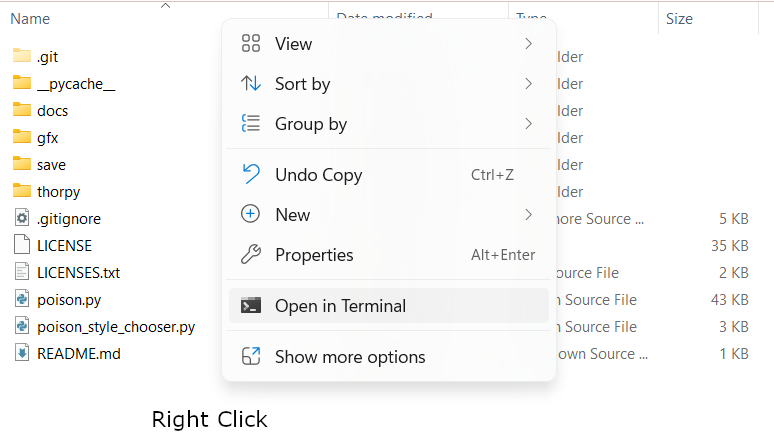
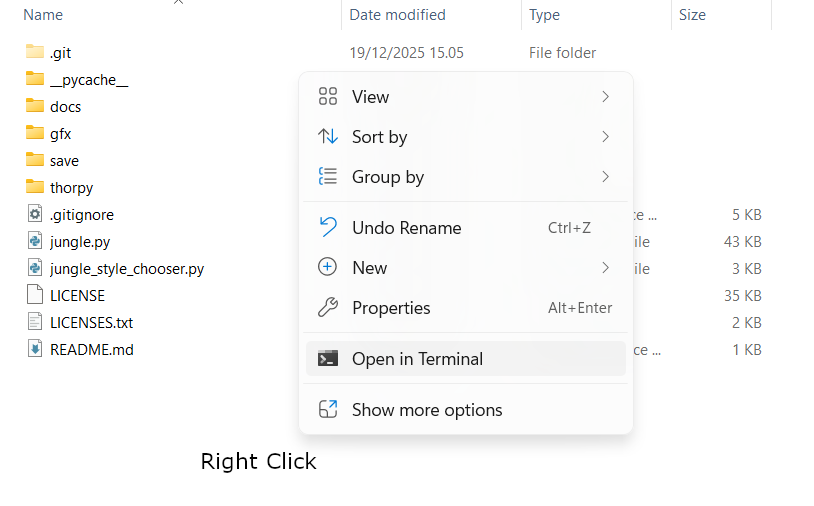
new name everywhere

diff --git a/docs/index.html b/docs/index.html
@@ -16,7 +16,7 @@ In this game you find yourself in a lush or sometimes barren jungle. You need to
 <p style="background-color: #345400; border: thick inset black; color: lightgreen;">py -3.13 -m pip install -U pillow</p>
 <h4 style="color: white; text-shadow: 3px 3px 0 #000, -1px -1px 0 #000, 1px -1px 0 #000, -1px 1px 0 #000, 1px 1px 0 #000;">Run the game after agreeing to the blue license note below</h4>
 <p style="background-color: #345400; border: thick inset black; color: lightgreen;">Download the latest <a style="color: purple; background-color: lightgreen;" href="https://github.com/Purlov/poisonivy/releases" target="_blank">Source code (zip)</a>. It is located under Assets</p>
-<p style="background-color: #345400; border: thick inset black; color: lightgreen;">py -3.13 -m poison (in the folder where you <a style="text-decoration: underline overline #ff3028; color: white;" href="extract.txt" target="_blank">extracted</a> the source code)</p>
+<p style="background-color: #345400; border: thick inset black; color: lightgreen;">py -3.13 -m jungle (in the folder where you <a style="text-decoration: underline overline #ff3028; color: white;" href="extract.txt" target="_blank">extracted</a> the source code)</p>
 <p style="border: thick inset black; width:600px"><img src="folder.png" width="600px"></p>
 <h4 style="color: white; text-shadow: 3px 3px 0 #000, -1px -1px 0 #000, 1px -1px 0 #000, -1px 1px 0 #000, 1px 1px 0 #000;">About Shenanigans</h4>
 <p style="background-color: #345400; border: thick inset black; color: lightgreen;">The windowed mode has been made for 1536 x 864. But if it looks too small press the Toggle Screen button. It might also fix the almost fitting of 1366 × 768.</p>

diff --git a/jungle.py b/jungle.py
@@ -17,7 +17,7 @@ random.seed()
 
 pygame.init()
 
-pygame.display.set_caption("Poison Ivy")
+pygame.display.set_caption("Jungle Hermit")
 icon = pygame.image.load("gfx/ivyleaf.png")
 pygame.display.set_icon(icon)
 
@@ -163,6 +163,8 @@ def change_window(name):
             leaf = "main_menu"
         
     if leaf == "main_menu":
+        main_menu_padding = tp.Text("\n"*5)
+
         main_menu_objects = []
         main_menu_objects.append(tp.Button("Continue Game"))
         main_menu_objects[len(main_menu_objects)-1].at_unclick=partial(change_window, "continue")
@@ -188,10 +190,11 @@ def change_window(name):
         main_menu_objects.append(tp.Button("Exit"))
         main_menu_objects[len(main_menu_objects)-1].at_unclick=exit_game
         main_menu_objects[len(main_menu_objects)-1].generate_shadow(fast=True)
-
-        main_group = tp.TitleBox("Poison Ivy Options", main_menu_objects)
+        
+        main_title = tp.TitleBox("Jungle Hermit Options", main_menu_objects)
+        main_title.sort_children(gap=10)
+        main_group = tp.Group((main_menu_padding,main_title),"v")
         # main_group.set_size((500,500))
-        main_group.sort_children(gap=20)
         main_group.center_on(screen)
     elif leaf == "save_game":
         save_group_left = []
@@ -502,7 +505,7 @@ def move_options_text(direction):
     
     license_text = "\n".join(license_text_spliced[options_current_h:options_current_h+14])
     licenses_area.set_text(license_text)
-    licenses_area.set_topleft(screen_width/2-logo_width/2-icon_main_width-25, screen_height*0.085+icon_main_height+25)
+    licenses_area.set_topleft(screen_width/2-625/2-icon_main_width-25, screen_height*0.085+icon_main_height+25)
 
 def change_character_type():
     if new_type_toggle.get_value() != "":
@@ -691,7 +694,7 @@ Types = {
             "img_med": load_tile("gfx/taurian.png", monster_tile_size_med),
             "img_max": load_tile("gfx/taurian.png", monster_tile_size_max),
             "hp": 100,
-            "description": "Taurians are agile and strong. Their type of fighting is close combat with dual weapons. They don't wear armour but they instead dodge. That's a good style. They come from a lush jungle where they cook magic porridges so they have aptitude for magically enchanted things, and the whole area of Poison Ivy."
+            "description": "Taurians are agile and strong. Their type of fighting is close combat with dual weapons. They don't wear armour but they instead dodge. That's a good style. They come from a lush jungle where they cook magic porridges so they have aptitude for magically enchanted things, and the whole area of ."
         }, 
         "dark elf": {
             "img_min": load_tile("gfx/dark_elf.png", monster_tile_size_min),
@@ -852,7 +855,8 @@ while running:
 
     if leaf == "main_menu" or leaf =="save_game" or leaf=="load_game" or leaf == "options":
         screen.blit(logo, (screen_width/2-logo_width/2, screen_height*0.085))
-        screen.blit(icon_main_scaled, (screen_width/2-logo_width/2-icon_main_width-25, screen_height*0.085))
+        screen.blit(icon_main_scaled, (screen_width/2-logo_width/2-icon_main_width, screen_height*0.085))
+        screen.blit(icon_main_scaled, (screen_width/2+logo_width/2-25, screen_height*0.085))
         screen.blit(golden_chest_main_scaled, (screen_width-golden_chest_main_width-10, screen_height-golden_chest_main_height-10))
         screen.blit(dark_elf_main_scaled, (screen_width-golden_chest_main_width-dark_elf_main_width-10-10, screen_height-dark_elf_main_height-10))
         #screen.blit(gladiator_text, (screen_width-gladiator_text_width-10, screen_height-dark_elf_main_height-10-gladiator_text_height))
@@ -865,8 +869,8 @@ while running:
         screen.blit(loading_text, (screen_width/2-loading_text_w/2,0.3*screen_height))
     elif leaf == "options":
         #screen.fill((150,0,0))
-        pygame.draw.rect(screen, (50,150,50), (screen_width/2-logo_width/2-icon_main_width-25-10, screen_height*0.085+icon_main_height+25-10,1000+20,400+20))
-        pygame.draw.rect(screen, (50,50,250), (screen_width/2-logo_width/2-icon_main_width-25, screen_height*0.085+icon_main_height+25,1000,400))
+        pygame.draw.rect(screen, (50,150,50), (screen_width/2-625/2-icon_main_width-25-10, screen_height*0.085+icon_main_height+25-10,1000+20,400+20))
+        pygame.draw.rect(screen, (50,50,250), (screen_width/2-625/2-icon_main_width-25, screen_height*0.085+icon_main_height+25,1000,400))
         #screen_width/2-logo_width/2-icon_main_width-25, screen_height*0.085+icon_main_height+25
     elif leaf == "new_game":
         screen.blit(new_game_logo_processed, (screen_width/2-new_game_logo_width/2, screen_height*0.085))
